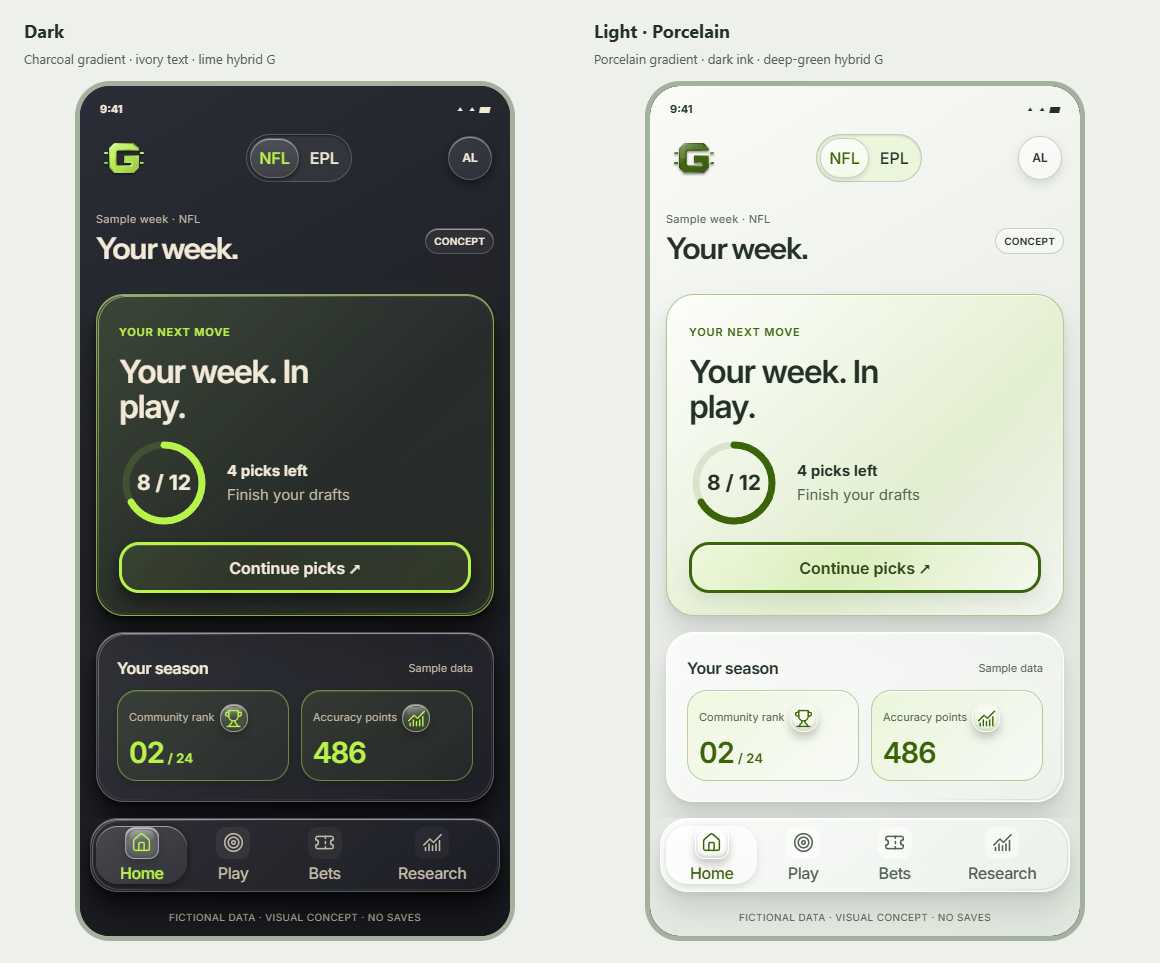
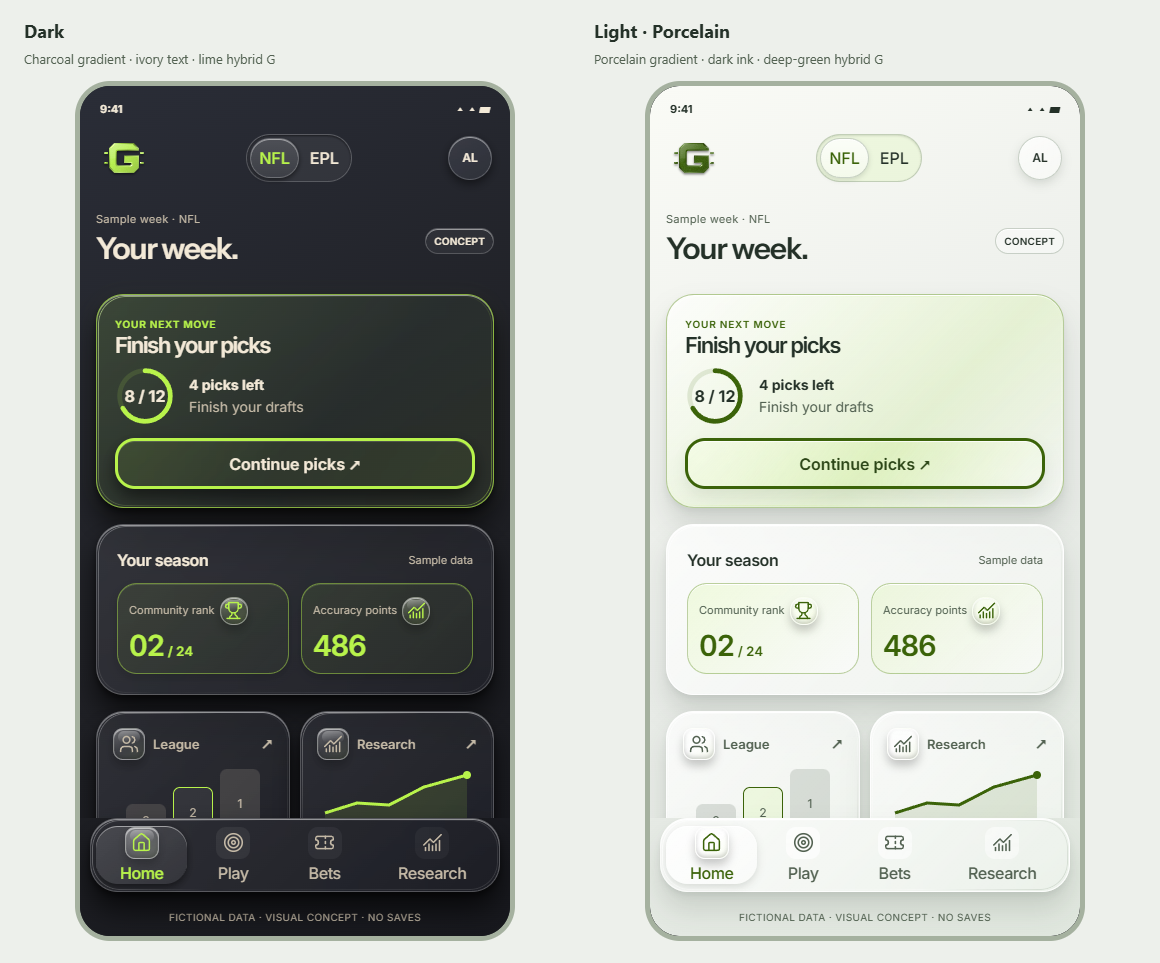
Adopt compact Home action card in both mockup themes

Changed region(s): [[0.0621, 0.3115, 0.4345, 0.8723], [0.5586, 0.3115, 0.931, 0.8723]]

diff --git a/design/style-directions-2026-11-04/home-compact-review.html b/design/style-directions-2026-11-04/home-compact-review.html
@@ -1,3 +1,3 @@
 <!doctype html><html lang="en"><head><meta charset="utf-8"><meta name="viewport" content="width=device-width,initial-scale=1"><link rel="icon" href="data:,"><title>GTL Home · Current vs compact</title><style>
 *{box-sizing:border-box}body{margin:0;background:#EDF0EB;color:#243128;font:16px/1.5 system-ui,sans-serif}header,nav,main,footer{max-width:1160px;margin:auto;padding:18px 24px}h1{font-size:32px;line-height:1.15;letter-spacing:-1px;margin:10px 0}header p{max-width:780px;color:#536252;font-size:15px}nav{display:flex;align-items:center;gap:10px;flex-wrap:wrap;border-block:1px solid #CBD4C8;background:#F8FAF5}button{font:inherit;min-height:44px;padding:8px 20px;border:1px solid #8D9B87;border-radius:12px;background:white;color:#243128;cursor:pointer}button[aria-pressed=true]{background:#365A0E;color:white}button:focus-visible,a:focus-visible{outline:3px solid #365A0E;outline-offset:3px}a{color:#365A0E}nav a{margin-left:auto}main{display:grid;grid-template-columns:1fr 1fr;gap:28px}.preview{min-width:0}.preview[hidden]{display:none}.preview h2{font-size:19px;margin:0}.preview p{font-size:13px;color:#536252;margin:4px 0 12px}.device{padding:5px;border-radius:35px;background:#A5B19F;max-width:440px;margin:auto}iframe{display:block;width:100%;height:850px;border:0;border-radius:30px;background:#202126}footer{font-size:13px;color:#536252}.icon-treatment-controls{display:none!important}#load-status{font-size:13px;color:#536252}@media(max-width:720px){main{grid-template-columns:1fr}header,nav,main,footer{padding-inline:16px}h1{font-size:28px}.preview h2,.preview p{max-width:440px;margin-inline:auto}nav a{margin-left:0}}
-</style></head><body><header><div>GUESS THE LINE / HOME REVIEW</div><h1>More of Home, sooner.</h1><p>Compare the current action card with a compact proposal. The smaller card keeps your progress and next action while bringing season stats and visual shortcuts higher on the screen.</p><div id="load-status" role="status">Loading comparison…</div></header><nav aria-label="Comparison theme"><button data-theme-choice="dark" aria-pressed="true">Dark</button><button data-theme-choice="light" aria-pressed="false">Light</button><a href="selected-system-review.html?screen=Home">Selected whole-app review ↗</a></nav><main><section class="preview" data-theme="dark"><h2>Current card</h2><p>Existing selected Home mockup</p><div class="device"><iframe data-compact="false" id="dark-current" data-review-theme="dark" data-background="#202126" data-wash="linear-gradient(150deg,#2A2D37 0%,#202126 50%,#17181D 100%)" data-text="#F3E9D7" data-muted="#C4B9A6" data-card-id="floating" data-card-settings="{&quot;fill&quot;: &quot;linear-gradient(135deg,#FFFFFF14,#FFFFFF06)&quot;, &quot;border&quot;: &quot;#FFFFFF38&quot;, &quot;blur&quot;: &quot;18px&quot;, &quot;shadow&quot;: &quot;inset 0 1px 0 #FFFFFF80,0 4px 6px #00000070,0 18px 28px #000000A6&quot;, &quot;gloss&quot;: &quot;.65&quot;, &quot;radius&quot;: &quot;28px&quot;}" data-button-id="transparent-frosted" data-button-settings="{&quot;fill&quot;: &quot;transparent&quot;, &quot;ink&quot;: &quot;#F3E9D7&quot;, &quot;border&quot;: &quot;3px solid #B8F34B&quot;, &quot;radius&quot;: &quot;20px&quot;, &quot;shadow&quot;: &quot;inset 0 1px 0 #FFFFFF26,0 8px 16px #00000080&quot;, &quot;shine&quot;: &quot;0&quot;, &quot;secondaryRadius&quot;: &quot;20px&quot;, &quot;secondaryShadow&quot;: &quot;inset 0 1px 0 #FFFFFF40,0 4px 8px #00000040&quot;, &quot;backdrop&quot;: &quot;blur(18px)&quot;}" data-lime-priority="true" title="Current card, dark Home preview" src="prism.html?style=prism&amp;palette=obsidian&amp;screen=Home&amp;embed=1&amp;cards=uniform"></iframe></div></section><section class="preview" data-theme="dark"><h2>Compact proposal</h2><p>Shorter headline and progress row</p><div class="device"><iframe data-compact="true" id="dark-compact" data-review-theme="dark" data-background="#202126" data-wash="linear-gradient(150deg,#2A2D37 0%,#202126 50%,#17181D 100%)" data-text="#F3E9D7" data-muted="#C4B9A6" data-card-id="floating" data-card-settings="{&quot;fill&quot;: &quot;linear-gradient(135deg,#FFFFFF14,#FFFFFF06)&quot;, &quot;border&quot;: &quot;#FFFFFF38&quot;, &quot;blur&quot;: &quot;18px&quot;, &quot;shadow&quot;: &quot;inset 0 1px 0 #FFFFFF80,0 4px 6px #00000070,0 18px 28px #000000A6&quot;, &quot;gloss&quot;: &quot;.65&quot;, &quot;radius&quot;: &quot;28px&quot;}" data-button-id="transparent-frosted" data-button-settings="{&quot;fill&quot;: &quot;transparent&quot;, &quot;ink&quot;: &quot;#F3E9D7&quot;, &quot;border&quot;: &quot;3px solid #B8F34B&quot;, &quot;radius&quot;: &quot;20px&quot;, &quot;shadow&quot;: &quot;inset 0 1px 0 #FFFFFF26,0 8px 16px #00000080&quot;, &quot;shine&quot;: &quot;0&quot;, &quot;secondaryRadius&quot;: &quot;20px&quot;, &quot;secondaryShadow&quot;: &quot;inset 0 1px 0 #FFFFFF40,0 4px 8px #00000040&quot;, &quot;backdrop&quot;: &quot;blur(18px)&quot;}" data-lime-priority="true" title="Compact proposal, dark Home preview" src="prism.html?style=prism&amp;palette=obsidian&amp;screen=Home&amp;embed=1&amp;cards=uniform"></iframe></div></section><section class="preview" data-theme="light" hidden><h2>Current card</h2><p>Existing selected Home mockup</p><div class="device"><iframe data-compact="false" id="light-current" data-review-theme="light" data-light-settings="{&quot;number&quot;: 2, &quot;id&quot;: &quot;porcelain&quot;, &quot;name&quot;: &quot;Porcelain glass&quot;, &quot;note&quot;: &quot;Off-white with a gentle green undertone.&quot;, &quot;background&quot;: &quot;#E9ECE8&quot;, &quot;wash&quot;: &quot;linear-gradient(150deg,#FAFBF6,#E9ECE8 55%,#E0E7DE)&quot;, &quot;source&quot;: &quot;Earlier additional-round favorite 24 / Porcelain &amp; Evergreen&quot;, &quot;confirmed&quot;: &quot;2026-11-04&quot;, &quot;scope&quot;: &quot;Light-mode background preference from the three-way Research comparison&quot;, &quot;nextReview&quot;: &quot;Carry the light preview adaptations across screens alongside selected dark mode&quot;, &quot;production&quot;: &quot;Not integrated or deployed&quot;, &quot;ink&quot;: &quot;#243128&quot;, &quot;muted&quot;: &quot;#536252&quot;, &quot;accentInk&quot;: &quot;#3B6309&quot;, &quot;logo&quot;: &quot;logo-hybrid/light-deep-green.svg&quot;}" data-card-id="floating-light" data-card-settings="{&quot;fill&quot;: &quot;linear-gradient(135deg,#FFFFFFC7,#FFFFFF66)&quot;, &quot;border&quot;: &quot;#FFFFFFD9&quot;, &quot;blur&quot;: &quot;18px&quot;, &quot;shadow&quot;: &quot;inset 0 1px 0 #FFFFFF,0 4px 6px #20302412,0 18px 28px #20302424&quot;, &quot;gloss&quot;: &quot;.65&quot;, &quot;radius&quot;: &quot;28px&quot;}" data-button-id="transparent-light" data-button-settings="{&quot;fill&quot;: &quot;transparent&quot;, &quot;ink&quot;: &quot;#2C4617&quot;, &quot;border&quot;: &quot;3px solid #3B6309&quot;, &quot;radius&quot;: &quot;20px&quot;, &quot;shadow&quot;: &quot;inset 0 1px 0 #FFFFFFCC,0 8px 16px #24332318&quot;, &quot;shine&quot;: &quot;0&quot;, &quot;secondaryRadius&quot;: &quot;20px&quot;, &quot;secondaryShadow&quot;: &quot;inset 0 1px 0 #FFFFFFCC,0 4px 8px #24332312&quot;, &quot;backdrop&quot;: &quot;blur(18px)&quot;}" title="Current card, light Home preview" src="prism.html?style=prism&amp;palette=arctic&amp;screen=Home&amp;embed=1&amp;cards=uniform"></iframe></div></section><section class="preview" data-theme="light" hidden><h2>Compact proposal</h2><p>Shorter headline and progress row</p><div class="device"><iframe data-compact="true" id="light-compact" data-review-theme="light" data-light-settings="{&quot;number&quot;: 2, &quot;id&quot;: &quot;porcelain&quot;, &quot;name&quot;: &quot;Porcelain glass&quot;, &quot;note&quot;: &quot;Off-white with a gentle green undertone.&quot;, &quot;background&quot;: &quot;#E9ECE8&quot;, &quot;wash&quot;: &quot;linear-gradient(150deg,#FAFBF6,#E9ECE8 55%,#E0E7DE)&quot;, &quot;source&quot;: &quot;Earlier additional-round favorite 24 / Porcelain &amp; Evergreen&quot;, &quot;confirmed&quot;: &quot;2026-11-04&quot;, &quot;scope&quot;: &quot;Light-mode background preference from the three-way Research comparison&quot;, &quot;nextReview&quot;: &quot;Carry the light preview adaptations across screens alongside selected dark mode&quot;, &quot;production&quot;: &quot;Not integrated or deployed&quot;, &quot;ink&quot;: &quot;#243128&quot;, &quot;muted&quot;: &quot;#536252&quot;, &quot;accentInk&quot;: &quot;#3B6309&quot;, &quot;logo&quot;: &quot;logo-hybrid/light-deep-green.svg&quot;}" data-card-id="floating-light" data-card-settings="{&quot;fill&quot;: &quot;linear-gradient(135deg,#FFFFFFC7,#FFFFFF66)&quot;, &quot;border&quot;: &quot;#FFFFFFD9&quot;, &quot;blur&quot;: &quot;18px&quot;, &quot;shadow&quot;: &quot;inset 0 1px 0 #FFFFFF,0 4px 6px #20302412,0 18px 28px #20302424&quot;, &quot;gloss&quot;: &quot;.65&quot;, &quot;radius&quot;: &quot;28px&quot;}" data-button-id="transparent-light" data-button-settings="{&quot;fill&quot;: &quot;transparent&quot;, &quot;ink&quot;: &quot;#2C4617&quot;, &quot;border&quot;: &quot;3px solid #3B6309&quot;, &quot;radius&quot;: &quot;20px&quot;, &quot;shadow&quot;: &quot;inset 0 1px 0 #FFFFFFCC,0 8px 16px #24332318&quot;, &quot;shine&quot;: &quot;0&quot;, &quot;secondaryRadius&quot;: &quot;20px&quot;, &quot;secondaryShadow&quot;: &quot;inset 0 1px 0 #FFFFFFCC,0 4px 8px #24332312&quot;, &quot;backdrop&quot;: &quot;blur(18px)&quot;}" title="Compact proposal, light Home preview" src="prism.html?style=prism&amp;palette=arctic&amp;screen=Home&amp;embed=1&amp;cards=uniform"></iframe></div></section></main><footer>Fictional data · visual proposal awaiting your choice · selected colors, G, floating glass, outlined button and glossy icons retained. Screens scroll independently.<br>NFL and team marks belong to their owners; identification only, no endorsement.</footer><script src="app-background-options.js"></script><script src="glass-card-options.js"></script><script src="button-style-options.js"></script><script src="lime-priority-preview.js"></script><script src="light-mode-options.js"></script><script src="selected-content-preview.js"></script><script src="visual-content-review.js"></script><script src="home-compact-review.js"></script></body></html>
+</style></head><body><header><div>GUESS THE LINE / HOME REVIEW</div><h1>More of Home, sooner.</h1><p>Compare the current action card with a compact proposal. The smaller card keeps your progress and next action while bringing season stats and visual shortcuts higher on the screen.</p><div id="load-status" role="status">Loading comparison…</div></header><nav aria-label="Comparison theme"><button data-theme-choice="dark" aria-pressed="true">Dark</button><button data-theme-choice="light" aria-pressed="false">Light</button><a href="selected-system-review.html?screen=Home">Selected whole-app review ↗</a></nav><main><section class="preview" data-theme="dark"><h2>Current card</h2><p>Previous Home layout</p><div class="device"><iframe data-compact="false" id="dark-current" data-review-theme="dark" data-background="#202126" data-wash="linear-gradient(150deg,#2A2D37 0%,#202126 50%,#17181D 100%)" data-text="#F3E9D7" data-muted="#C4B9A6" data-card-id="floating" data-card-settings="{&quot;fill&quot;: &quot;linear-gradient(135deg,#FFFFFF14,#FFFFFF06)&quot;, &quot;border&quot;: &quot;#FFFFFF38&quot;, &quot;blur&quot;: &quot;18px&quot;, &quot;shadow&quot;: &quot;inset 0 1px 0 #FFFFFF80,0 4px 6px #00000070,0 18px 28px #000000A6&quot;, &quot;gloss&quot;: &quot;.65&quot;, &quot;radius&quot;: &quot;28px&quot;}" data-button-id="transparent-frosted" data-button-settings="{&quot;fill&quot;: &quot;transparent&quot;, &quot;ink&quot;: &quot;#F3E9D7&quot;, &quot;border&quot;: &quot;3px solid #B8F34B&quot;, &quot;radius&quot;: &quot;20px&quot;, &quot;shadow&quot;: &quot;inset 0 1px 0 #FFFFFF26,0 8px 16px #00000080&quot;, &quot;shine&quot;: &quot;0&quot;, &quot;secondaryRadius&quot;: &quot;20px&quot;, &quot;secondaryShadow&quot;: &quot;inset 0 1px 0 #FFFFFF40,0 4px 8px #00000040&quot;, &quot;backdrop&quot;: &quot;blur(18px)&quot;}" data-lime-priority="true" title="Current card, dark Home preview" src="prism.html?style=prism&amp;palette=obsidian&amp;screen=Home&amp;embed=1&amp;cards=uniform"></iframe></div></section><section class="preview" data-theme="dark"><h2>Compact · selected</h2><p>Shorter headline and progress row</p><div class="device"><iframe data-compact="true" id="dark-compact" data-review-theme="dark" data-background="#202126" data-wash="linear-gradient(150deg,#2A2D37 0%,#202126 50%,#17181D 100%)" data-text="#F3E9D7" data-muted="#C4B9A6" data-card-id="floating" data-card-settings="{&quot;fill&quot;: &quot;linear-gradient(135deg,#FFFFFF14,#FFFFFF06)&quot;, &quot;border&quot;: &quot;#FFFFFF38&quot;, &quot;blur&quot;: &quot;18px&quot;, &quot;shadow&quot;: &quot;inset 0 1px 0 #FFFFFF80,0 4px 6px #00000070,0 18px 28px #000000A6&quot;, &quot;gloss&quot;: &quot;.65&quot;, &quot;radius&quot;: &quot;28px&quot;}" data-button-id="transparent-frosted" data-button-settings="{&quot;fill&quot;: &quot;transparent&quot;, &quot;ink&quot;: &quot;#F3E9D7&quot;, &quot;border&quot;: &quot;3px solid #B8F34B&quot;, &quot;radius&quot;: &quot;20px&quot;, &quot;shadow&quot;: &quot;inset 0 1px 0 #FFFFFF26,0 8px 16px #00000080&quot;, &quot;shine&quot;: &quot;0&quot;, &quot;secondaryRadius&quot;: &quot;20px&quot;, &quot;secondaryShadow&quot;: &quot;inset 0 1px 0 #FFFFFF40,0 4px 8px #00000040&quot;, &quot;backdrop&quot;: &quot;blur(18px)&quot;}" data-lime-priority="true" title="Compact · selected, dark Home preview" src="prism.html?style=prism&amp;palette=obsidian&amp;screen=Home&amp;embed=1&amp;cards=uniform"></iframe></div></section><section class="preview" data-theme="light" hidden><h2>Current card</h2><p>Previous Home layout</p><div class="device"><iframe data-compact="false" id="light-current" data-review-theme="light" data-light-settings="{&quot;number&quot;: 2, &quot;id&quot;: &quot;porcelain&quot;, &quot;name&quot;: &quot;Porcelain glass&quot;, &quot;note&quot;: &quot;Off-white with a gentle green undertone.&quot;, &quot;background&quot;: &quot;#E9ECE8&quot;, &quot;wash&quot;: &quot;linear-gradient(150deg,#FAFBF6,#E9ECE8 55%,#E0E7DE)&quot;, &quot;source&quot;: &quot;Earlier additional-round favorite 24 / Porcelain &amp; Evergreen&quot;, &quot;confirmed&quot;: &quot;2026-11-04&quot;, &quot;scope&quot;: &quot;Light-mode background preference from the three-way Research comparison&quot;, &quot;nextReview&quot;: &quot;Carry the light preview adaptations across screens alongside selected dark mode&quot;, &quot;production&quot;: &quot;Not integrated or deployed&quot;, &quot;ink&quot;: &quot;#243128&quot;, &quot;muted&quot;: &quot;#536252&quot;, &quot;accentInk&quot;: &quot;#3B6309&quot;, &quot;logo&quot;: &quot;logo-hybrid/light-deep-green.svg&quot;}" data-card-id="floating-light" data-card-settings="{&quot;fill&quot;: &quot;linear-gradient(135deg,#FFFFFFC7,#FFFFFF66)&quot;, &quot;border&quot;: &quot;#FFFFFFD9&quot;, &quot;blur&quot;: &quot;18px&quot;, &quot;shadow&quot;: &quot;inset 0 1px 0 #FFFFFF,0 4px 6px #20302412,0 18px 28px #20302424&quot;, &quot;gloss&quot;: &quot;.65&quot;, &quot;radius&quot;: &quot;28px&quot;}" data-button-id="transparent-light" data-button-settings="{&quot;fill&quot;: &quot;transparent&quot;, &quot;ink&quot;: &quot;#2C4617&quot;, &quot;border&quot;: &quot;3px solid #3B6309&quot;, &quot;radius&quot;: &quot;20px&quot;, &quot;shadow&quot;: &quot;inset 0 1px 0 #FFFFFFCC,0 8px 16px #24332318&quot;, &quot;shine&quot;: &quot;0&quot;, &quot;secondaryRadius&quot;: &quot;20px&quot;, &quot;secondaryShadow&quot;: &quot;inset 0 1px 0 #FFFFFFCC,0 4px 8px #24332312&quot;, &quot;backdrop&quot;: &quot;blur(18px)&quot;}" title="Current card, light Home preview" src="prism.html?style=prism&amp;palette=arctic&amp;screen=Home&amp;embed=1&amp;cards=uniform"></iframe></div></section><section class="preview" data-theme="light" hidden><h2>Compact · selected</h2><p>Shorter headline and progress row</p><div class="device"><iframe data-compact="true" id="light-compact" data-review-theme="light" data-light-settings="{&quot;number&quot;: 2, &quot;id&quot;: &quot;porcelain&quot;, &quot;name&quot;: &quot;Porcelain glass&quot;, &quot;note&quot;: &quot;Off-white with a gentle green undertone.&quot;, &quot;background&quot;: &quot;#E9ECE8&quot;, &quot;wash&quot;: &quot;linear-gradient(150deg,#FAFBF6,#E9ECE8 55%,#E0E7DE)&quot;, &quot;source&quot;: &quot;Earlier additional-round favorite 24 / Porcelain &amp; Evergreen&quot;, &quot;confirmed&quot;: &quot;2026-11-04&quot;, &quot;scope&quot;: &quot;Light-mode background preference from the three-way Research comparison&quot;, &quot;nextReview&quot;: &quot;Carry the light preview adaptations across screens alongside selected dark mode&quot;, &quot;production&quot;: &quot;Not integrated or deployed&quot;, &quot;ink&quot;: &quot;#243128&quot;, &quot;muted&quot;: &quot;#536252&quot;, &quot;accentInk&quot;: &quot;#3B6309&quot;, &quot;logo&quot;: &quot;logo-hybrid/light-deep-green.svg&quot;}" data-card-id="floating-light" data-card-settings="{&quot;fill&quot;: &quot;linear-gradient(135deg,#FFFFFFC7,#FFFFFF66)&quot;, &quot;border&quot;: &quot;#FFFFFFD9&quot;, &quot;blur&quot;: &quot;18px&quot;, &quot;shadow&quot;: &quot;inset 0 1px 0 #FFFFFF,0 4px 6px #20302412,0 18px 28px #20302424&quot;, &quot;gloss&quot;: &quot;.65&quot;, &quot;radius&quot;: &quot;28px&quot;}" data-button-id="transparent-light" data-button-settings="{&quot;fill&quot;: &quot;transparent&quot;, &quot;ink&quot;: &quot;#2C4617&quot;, &quot;border&quot;: &quot;3px solid #3B6309&quot;, &quot;radius&quot;: &quot;20px&quot;, &quot;shadow&quot;: &quot;inset 0 1px 0 #FFFFFFCC,0 8px 16px #24332318&quot;, &quot;shine&quot;: &quot;0&quot;, &quot;secondaryRadius&quot;: &quot;20px&quot;, &quot;secondaryShadow&quot;: &quot;inset 0 1px 0 #FFFFFFCC,0 4px 8px #24332312&quot;, &quot;backdrop&quot;: &quot;blur(18px)&quot;}" title="Compact · selected, light Home preview" src="prism.html?style=prism&amp;palette=arctic&amp;screen=Home&amp;embed=1&amp;cards=uniform"></iframe></div></section></main><footer>Fictional data · compact version selected by Sean · selected colors, G, floating glass, outlined button and glossy icons retained. Screens scroll independently.<br>NFL and team marks belong to their owners; identification only, no endorsement.</footer><script src="app-background-options.js"></script><script src="glass-card-options.js"></script><script src="button-style-options.js"></script><script src="lime-priority-preview.js"></script><script src="light-mode-options.js"></script><script src="selected-content-preview.js"></script><script src="visual-content-review.js"></script><script src="home-compact-review.js"></script></body></html>

diff --git a/design/style-directions-2026-11-04/selected-system-review.html b/design/style-directions-2026-11-04/selected-system-review.html
@@ -1,2 +1,2 @@
 <!doctype html><html lang="en"><head><meta charset="utf-8"><meta name="viewport" content="width=device-width,initial-scale=1"><link rel="icon" href="data:,"><title>Guess the Line — selected dark and light design review</title><style>*{box-sizing:border-box}body{margin:0;background:#EDF0EB;color:#243128;font:16px/1.5 -apple-system,BlinkMacSystemFont,"Segoe UI",sans-serif}header,nav,main,.review-notes,footer{max-width:1160px;margin:auto;padding-inline:24px}header{padding-top:24px;padding-bottom:18px}.eyebrow{font-size:12px;color:#536252;letter-spacing:.1em;text-transform:uppercase}h1{font-size:32px;line-height:1.15;letter-spacing:-1px;margin:10px 0}header p{color:#536252;margin:10px 0 0;max-width:90ch}.review-controls{display:flex;align-items:center;gap:12px;flex-wrap:wrap;padding-block:12px;border-block:1px solid #CBD4C8;background:#F8FAF5;position:sticky;top:0;z-index:20}button,select,textarea{font:inherit}button,select,.button-link{min-height:44px;padding:9px 14px;border:1px solid #8D9B87;border-radius:12px;background:#FFFFFF;color:#243128}button{cursor:pointer}.screen-buttons{display:flex;gap:6px;flex-wrap:wrap}.screen-buttons button[aria-pressed=true]{background:#365A0E;color:#FFFFFF;border-color:#365A0E}.layer-control{display:flex;gap:7px;align-items:center;font-size:14px}.layer-control select{max-width:230px}.review-controls a{margin-left:auto;font-size:14px}a{color:#365A0E}button:focus-visible,select:focus-visible,textarea:focus-visible,a:focus-visible,summary:focus-visible{outline:3px solid #365A0E;outline-offset:3px}main{display:grid;grid-template-columns:1fr 1fr;gap:28px;padding-top:18px;padding-bottom:22px}.preview{min-width:0}.preview h2{font-size:18px;margin:0 0 4px}.preview p{font-size:13px;color:#536252;margin:0 0 12px}.device{padding:5px;border-radius:35px;background:#A5B19F;max-width:440px;margin:auto}iframe{display:block;width:100%;height:850px;border:0;border-radius:30px;background:#202126}.review-notes{padding-bottom:18px}.review-notes details{border:1px solid #C3CDC0;border-radius:14px;background:#F8FAF5;padding:12px 16px}.review-notes summary{cursor:pointer;font-weight:600;min-height:32px}.review-notes label{display:block;margin:10px 0 6px;font-size:14px}.review-notes textarea{width:100%;min-height:90px;padding:12px;border:1px solid #8D9B87;border-radius:10px;font-size:16px}.note-actions{display:flex;align-items:center;justify-content:space-between;gap:12px;flex-wrap:wrap;margin-top:10px}#review-status{font-size:13px;color:#536252;min-height:20px}footer{padding-bottom:24px;color:#536252;font-size:13px}#load-status{font-size:13px;margin:8px 0 0;color:#536252}@media(max-width:720px){header,nav,main,.review-notes,footer{padding-inline:16px}main{grid-template-columns:1fr}.review-controls{position:relative}.review-controls a{margin-left:0}.screen-buttons{gap:5px}.screen-buttons button{padding-inline:11px}h1{font-size:28px}.preview h2,.preview p{max-width:440px;margin-inline:auto}.preview p{margin-bottom:12px}.layer-control select{max-width:220px}}
-</style></head><body><header><div class="eyebrow">Guess the Line / Your selected design</div><h1>Dark + Porcelain, across the app.</h1><p>Choose a screen or an opened layer to align both previews. Your selected logo, floating glass, selective lime and theme colors carry through matching content previews. Team marks, graphical cards and five proposed icon finishes are available for fresh review.</p><p id="load-status" role="status">Loading matching previews…</p></header><nav class="review-controls" aria-label="Screen and layer review"><div class="screen-buttons" id="screen-buttons"></div><label class="layer-control">View<select id="review-layer" disabled></select></label><a href="selected-system-overview.html">All six screen pairs ↗</a></nav><main><section class="preview"><h2>Dark</h2><p>Charcoal gradient · ivory text · lime hybrid G</p><div class="device"><iframe id="dark-review-frame" data-review-theme="dark" data-background="#202126" data-wash="linear-gradient(150deg,#2A2D37 0%,#202126 50%,#17181D 100%)" data-text="#F3E9D7" data-muted="#C4B9A6" data-card-id="floating" data-card-settings="{&quot;fill&quot;: &quot;linear-gradient(135deg,#FFFFFF14,#FFFFFF06)&quot;, &quot;border&quot;: &quot;#FFFFFF38&quot;, &quot;blur&quot;: &quot;18px&quot;, &quot;shadow&quot;: &quot;inset 0 1px 0 #FFFFFF80,0 4px 6px #00000070,0 18px 28px #000000A6&quot;, &quot;gloss&quot;: &quot;.65&quot;, &quot;radius&quot;: &quot;28px&quot;}" data-button-id="transparent-frosted" data-button-settings="{&quot;fill&quot;: &quot;transparent&quot;, &quot;ink&quot;: &quot;#F3E9D7&quot;, &quot;border&quot;: &quot;3px solid #B8F34B&quot;, &quot;radius&quot;: &quot;20px&quot;, &quot;shadow&quot;: &quot;inset 0 1px 0 #FFFFFF26,0 8px 16px #00000080&quot;, &quot;shine&quot;: &quot;0&quot;, &quot;secondaryRadius&quot;: &quot;20px&quot;, &quot;secondaryShadow&quot;: &quot;inset 0 1px 0 #FFFFFF40,0 4px 8px #00000040&quot;, &quot;backdrop&quot;: &quot;blur(18px)&quot;}" data-lime-priority="true" title="Dark selected app design preview" src="prism.html?style=prism&amp;palette=obsidian&amp;screen=Home&amp;embed=1&amp;cards=uniform"></iframe></div></section><section class="preview"><h2>Light · Porcelain</h2><p>Porcelain gradient · dark ink · deep-green hybrid G</p><div class="device"><iframe id="light-review-frame" data-review-theme="light" data-light-settings="{&quot;number&quot;: 2, &quot;id&quot;: &quot;porcelain&quot;, &quot;name&quot;: &quot;Porcelain glass&quot;, &quot;note&quot;: &quot;Off-white with a gentle green undertone.&quot;, &quot;background&quot;: &quot;#E9ECE8&quot;, &quot;wash&quot;: &quot;linear-gradient(150deg,#FAFBF6,#E9ECE8 55%,#E0E7DE)&quot;, &quot;source&quot;: &quot;Earlier additional-round favorite 24 / Porcelain &amp; Evergreen&quot;, &quot;confirmed&quot;: &quot;2026-11-04&quot;, &quot;scope&quot;: &quot;Light-mode background preference from the three-way Research comparison&quot;, &quot;nextReview&quot;: &quot;Carry the light preview adaptations across screens alongside selected dark mode&quot;, &quot;production&quot;: &quot;Not integrated or deployed&quot;, &quot;ink&quot;: &quot;#243128&quot;, &quot;muted&quot;: &quot;#536252&quot;, &quot;accentInk&quot;: &quot;#3B6309&quot;, &quot;logo&quot;: &quot;logo-hybrid/light-deep-green.svg&quot;}" data-card-id="floating-light" data-card-settings="{&quot;fill&quot;: &quot;linear-gradient(135deg,#FFFFFFC7,#FFFFFF66)&quot;, &quot;border&quot;: &quot;#FFFFFFD9&quot;, &quot;blur&quot;: &quot;18px&quot;, &quot;shadow&quot;: &quot;inset 0 1px 0 #FFFFFF,0 4px 6px #20302412,0 18px 28px #20302424&quot;, &quot;gloss&quot;: &quot;.65&quot;, &quot;radius&quot;: &quot;28px&quot;}" data-button-id="transparent-light" data-button-settings="{&quot;fill&quot;: &quot;transparent&quot;, &quot;ink&quot;: &quot;#2C4617&quot;, &quot;border&quot;: &quot;3px solid #3B6309&quot;, &quot;radius&quot;: &quot;20px&quot;, &quot;shadow&quot;: &quot;inset 0 1px 0 #FFFFFFCC,0 8px 16px #24332318&quot;, &quot;shine&quot;: &quot;0&quot;, &quot;secondaryRadius&quot;: &quot;20px&quot;, &quot;secondaryShadow&quot;: &quot;inset 0 1px 0 #FFFFFFCC,0 4px 8px #24332312&quot;, &quot;backdrop&quot;: &quot;blur(18px)&quot;}" title="Light · Porcelain selected app design preview" src="prism.html?style=prism&amp;palette=arctic&amp;screen=Home&amp;embed=1&amp;cards=uniform"></iframe></div></section></main><section class="review-notes"><details><summary>Notes for this view</summary><label for="view-notes">What should change in this screen or layer?</label><textarea id="view-notes" placeholder="Mention dark or light, then the change you want."></textarea><div class="note-actions"><span id="review-status" role="status">Notes stay in this browser. Export to share them.</span><button id="export-review">Export review notes</button></div></details></section><footer>Six primary mockup areas and their available detail views · Fictional fixtures · Visual review, not production functionality or a release.<br>You can navigate inside either phone independently. Choose a screen/view above to align them again. No sign-off is inferred from opening views or saving notes.<br>NFL, Premier League and team marks belong to their owners; used for identification. No endorsement or affiliation.</footer><script src="app-background-options.js"></script><script src="glass-card-options.js"></script><script src="button-style-options.js"></script><script src="lime-priority-preview.js"></script><script src="light-mode-options.js"></script><script src="selected-content-preview.js"></script><script src="visual-content-review.js"></script><script src="selected-system-review.js"></script></body></html>
+</style></head><body><header><div class="eyebrow">Guess the Line / Your selected design</div><h1>Dark + Porcelain, across the app.</h1><p>Choose a screen or an opened layer to align both previews. Your selected logo, floating glass, selective lime and theme colors carry through matching content previews. Team marks, graphical cards and five proposed icon finishes are available for fresh review.</p><p id="load-status" role="status">Loading matching previews…</p></header><nav class="review-controls" aria-label="Screen and layer review"><div class="screen-buttons" id="screen-buttons"></div><label class="layer-control">View<select id="review-layer" disabled></select></label><a href="selected-system-overview.html">All six screen pairs ↗</a></nav><main><section class="preview"><h2>Dark</h2><p>Charcoal gradient · ivory text · lime hybrid G</p><div class="device"><iframe id="dark-review-frame" data-review-theme="dark" data-background="#202126" data-wash="linear-gradient(150deg,#2A2D37 0%,#202126 50%,#17181D 100%)" data-text="#F3E9D7" data-muted="#C4B9A6" data-card-id="floating" data-card-settings="{&quot;fill&quot;: &quot;linear-gradient(135deg,#FFFFFF14,#FFFFFF06)&quot;, &quot;border&quot;: &quot;#FFFFFF38&quot;, &quot;blur&quot;: &quot;18px&quot;, &quot;shadow&quot;: &quot;inset 0 1px 0 #FFFFFF80,0 4px 6px #00000070,0 18px 28px #000000A6&quot;, &quot;gloss&quot;: &quot;.65&quot;, &quot;radius&quot;: &quot;28px&quot;}" data-button-id="transparent-frosted" data-button-settings="{&quot;fill&quot;: &quot;transparent&quot;, &quot;ink&quot;: &quot;#F3E9D7&quot;, &quot;border&quot;: &quot;3px solid #B8F34B&quot;, &quot;radius&quot;: &quot;20px&quot;, &quot;shadow&quot;: &quot;inset 0 1px 0 #FFFFFF26,0 8px 16px #00000080&quot;, &quot;shine&quot;: &quot;0&quot;, &quot;secondaryRadius&quot;: &quot;20px&quot;, &quot;secondaryShadow&quot;: &quot;inset 0 1px 0 #FFFFFF40,0 4px 8px #00000040&quot;, &quot;backdrop&quot;: &quot;blur(18px)&quot;}" data-lime-priority="true" title="Dark selected app design preview" src="prism.html?style=prism&amp;palette=obsidian&amp;screen=Home&amp;embed=1&amp;cards=uniform"></iframe></div></section><section class="preview"><h2>Light · Porcelain</h2><p>Porcelain gradient · dark ink · deep-green hybrid G</p><div class="device"><iframe id="light-review-frame" data-review-theme="light" data-light-settings="{&quot;number&quot;: 2, &quot;id&quot;: &quot;porcelain&quot;, &quot;name&quot;: &quot;Porcelain glass&quot;, &quot;note&quot;: &quot;Off-white with a gentle green undertone.&quot;, &quot;background&quot;: &quot;#E9ECE8&quot;, &quot;wash&quot;: &quot;linear-gradient(150deg,#FAFBF6,#E9ECE8 55%,#E0E7DE)&quot;, &quot;source&quot;: &quot;Earlier additional-round favorite 24 / Porcelain &amp; Evergreen&quot;, &quot;confirmed&quot;: &quot;2026-11-04&quot;, &quot;scope&quot;: &quot;Light-mode background preference from the three-way Research comparison&quot;, &quot;nextReview&quot;: &quot;Carry the light preview adaptations across screens alongside selected dark mode&quot;, &quot;production&quot;: &quot;Not integrated or deployed&quot;, &quot;ink&quot;: &quot;#243128&quot;, &quot;muted&quot;: &quot;#536252&quot;, &quot;accentInk&quot;: &quot;#3B6309&quot;, &quot;logo&quot;: &quot;logo-hybrid/light-deep-green.svg&quot;}" data-card-id="floating-light" data-card-settings="{&quot;fill&quot;: &quot;linear-gradient(135deg,#FFFFFFC7,#FFFFFF66)&quot;, &quot;border&quot;: &quot;#FFFFFFD9&quot;, &quot;blur&quot;: &quot;18px&quot;, &quot;shadow&quot;: &quot;inset 0 1px 0 #FFFFFF,0 4px 6px #20302412,0 18px 28px #20302424&quot;, &quot;gloss&quot;: &quot;.65&quot;, &quot;radius&quot;: &quot;28px&quot;}" data-button-id="transparent-light" data-button-settings="{&quot;fill&quot;: &quot;transparent&quot;, &quot;ink&quot;: &quot;#2C4617&quot;, &quot;border&quot;: &quot;3px solid #3B6309&quot;, &quot;radius&quot;: &quot;20px&quot;, &quot;shadow&quot;: &quot;inset 0 1px 0 #FFFFFFCC,0 8px 16px #24332318&quot;, &quot;shine&quot;: &quot;0&quot;, &quot;secondaryRadius&quot;: &quot;20px&quot;, &quot;secondaryShadow&quot;: &quot;inset 0 1px 0 #FFFFFFCC,0 4px 8px #24332312&quot;, &quot;backdrop&quot;: &quot;blur(18px)&quot;}" title="Light · Porcelain selected app design preview" src="prism.html?style=prism&amp;palette=arctic&amp;screen=Home&amp;embed=1&amp;cards=uniform"></iframe></div></section></main><section class="review-notes"><details><summary>Notes for this view</summary><label for="view-notes">What should change in this screen or layer?</label><textarea id="view-notes" placeholder="Mention dark or light, then the change you want."></textarea><div class="note-actions"><span id="review-status" role="status">Notes stay in this browser. Export to share them.</span><button id="export-review">Export review notes</button></div></details></section><footer>Six primary mockup areas and their available detail views · Fictional fixtures · Visual review, not production functionality or a release.<br>You can navigate inside either phone independently. Choose a screen/view above to align them again. No sign-off is inferred from opening views or saving notes.<br>NFL, Premier League and team marks belong to their owners; used for identification. No endorsement or affiliation.</footer><script src="app-background-options.js"></script><script src="glass-card-options.js"></script><script src="button-style-options.js"></script><script src="lime-priority-preview.js"></script><script src="light-mode-options.js"></script><script src="selected-content-preview.js"></script><script src="visual-content-review.js"></script><script src="home-compact-selected.js"></script><script src="selected-system-review.js"></script></body></html>

diff --git a/design/style-directions-2026-11-04/home-compact-selected.js b/design/style-directions-2026-11-04/home-compact-selected.js
@@ -1,0 +1,10 @@
+(()=>{
+'use strict';
+const css=".phone[data-home-compact] .home-hero{padding:18px!important}.phone[data-home-compact] .home-hero .kicker{font-size:10px;margin-bottom:5px}.phone[data-home-compact] .home-hero h2{font-size:22px!important;line-height:1.15!important;max-width:none!important;margin:0 0 8px!important}.phone[data-home-compact] .home-hero .visual-progress{margin:8px 0 12px;gap:14px}.phone[data-home-compact] .home-hero .visual-dial,.phone[data-home-compact] .home-hero .visual-dial svg{width:60px;height:60px}.phone[data-home-compact] .home-hero .visual-dial b{font-size:16px}.phone[data-home-compact] .home-hero .visual-progress>span{font-size:14px}.phone[data-home-compact] .home-hero .primary{margin:0!important;min-height:44px}";
+document.querySelectorAll('iframe[data-review-theme]').forEach(frame=>{
+ let observer;
+ function apply(){const d=frame.contentDocument,p=d?.querySelector('.phone');if(!p)return;p.dataset.homeCompact='true';const h=p.querySelector('.home-hero h2');if(h&&h.textContent!=='Finish your picks')h.textContent='Finish your picks';}
+ function ready(){const d=frame.contentDocument;if(!d?.getElementById('grid'))return;observer?.disconnect();if(!d.getElementById('selected-home-compact-css')){const style=d.createElement('style');style.id='selected-home-compact-css';style.textContent=css;d.head.append(style);}observer=new MutationObserver(apply);observer.observe(d.getElementById('grid'),{childList:true,subtree:true});apply();}
+ frame.addEventListener('load',ready);ready();
+});
+})();

diff --git a/docs/BRAND_GUIDE.md b/docs/BRAND_GUIDE.md
@@ -1,5 +1,18 @@
 # GUESS THE LINE — BRAND & DESIGN SYSTEM v1.0
 
+## Compact Home action card selected — November 5, 2026
+
+Sean selected the compact version from the Home comparison. The
+[selected whole-app viewer](../design/style-directions-2026-11-04/selected-system-review.html?screen=Home)
+now uses the shorter "Finish your picks" headline, 60px progress ring and 18px
+action-card padding in dark and light Home. Existing colors, materials, G,
+button styling, data and native navigation are retained. The
+[comparison](../design/style-directions-2026-11-04/home-compact-review.html)
+preserves the previous layout beside the selected version. This accepts the
+action-card layout only; fresh review of the rest of Home remains pending.
+The stopped Signal exploration is untouched and unpublished.
+
+
 ## Selected icon finish: 03 Glossy glass — November 4, 2026
 
 Sean accepted the assistant recommendation ("go with your rec"): use **03 Glossy

diff --git a/docs/COMPLETION_REGISTER.md b/docs/COMPLETION_REGISTER.md
@@ -1,5 +1,18 @@
 # Guess The Line — current completion register
 
+## Compact Home action card selected — November 5, 2026
+
+Sean selected the compact version from the Home comparison. The
+[selected whole-app viewer](../design/style-directions-2026-11-04/selected-system-review.html?screen=Home)
+now uses the shorter "Finish your picks" headline, 60px progress ring and 18px
+action-card padding in dark and light Home. Existing colors, materials, G,
+button styling, data and native navigation are retained. The
+[comparison](../design/style-directions-2026-11-04/home-compact-review.html)
+preserves the previous layout beside the selected version. This accepts the
+action-card layout only; fresh review of the rest of Home remains pending.
+The stopped Signal exploration is untouched and unpublished.
+
+
 ## Compact Home action-card comparison — November 5, 2026
 
 Sean agreed to review a compact Home card beside the existing card. The

diff --git a/design/style-directions-2026-11-04/README.md b/design/style-directions-2026-11-04/README.md
@@ -3,6 +3,19 @@
 Owner: Sean Balsiger · Version 31 · November 4, 2026
 
 
+## Compact Home action card selected — November 5, 2026
+
+Sean selected the compact version from the Home comparison. The
+[selected whole-app viewer](selected-system-review.html?screen=Home)
+now uses the shorter "Finish your picks" headline, 60px progress ring and 18px
+action-card padding in dark and light Home. Existing colors, materials, G,
+button styling, data and native navigation are retained. The
+[comparison](home-compact-review.html)
+preserves the previous layout beside the selected version. This accepts the
+action-card layout only; fresh review of the rest of Home remains pending.
+The stopped Signal exploration is untouched and unpublished.
+
+
 ## Compact Home action-card comparison — November 5, 2026
 
 Sean agreed to review a compact Home card beside the existing card. The
